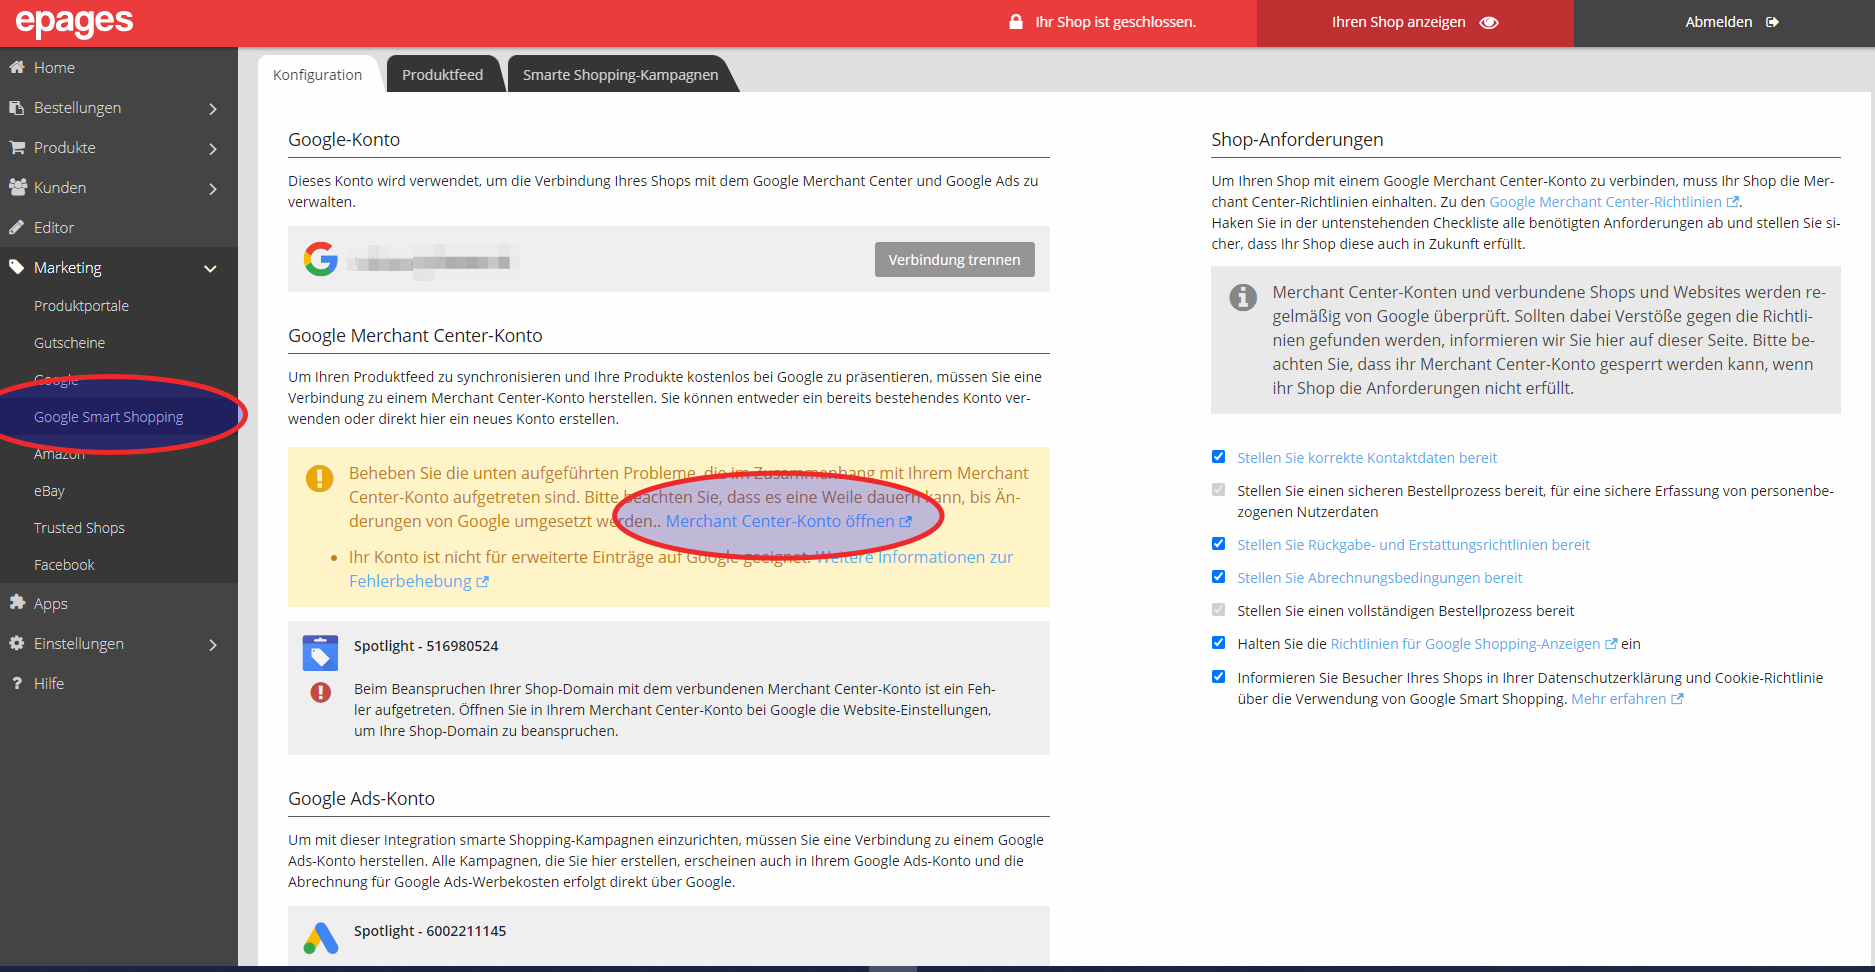
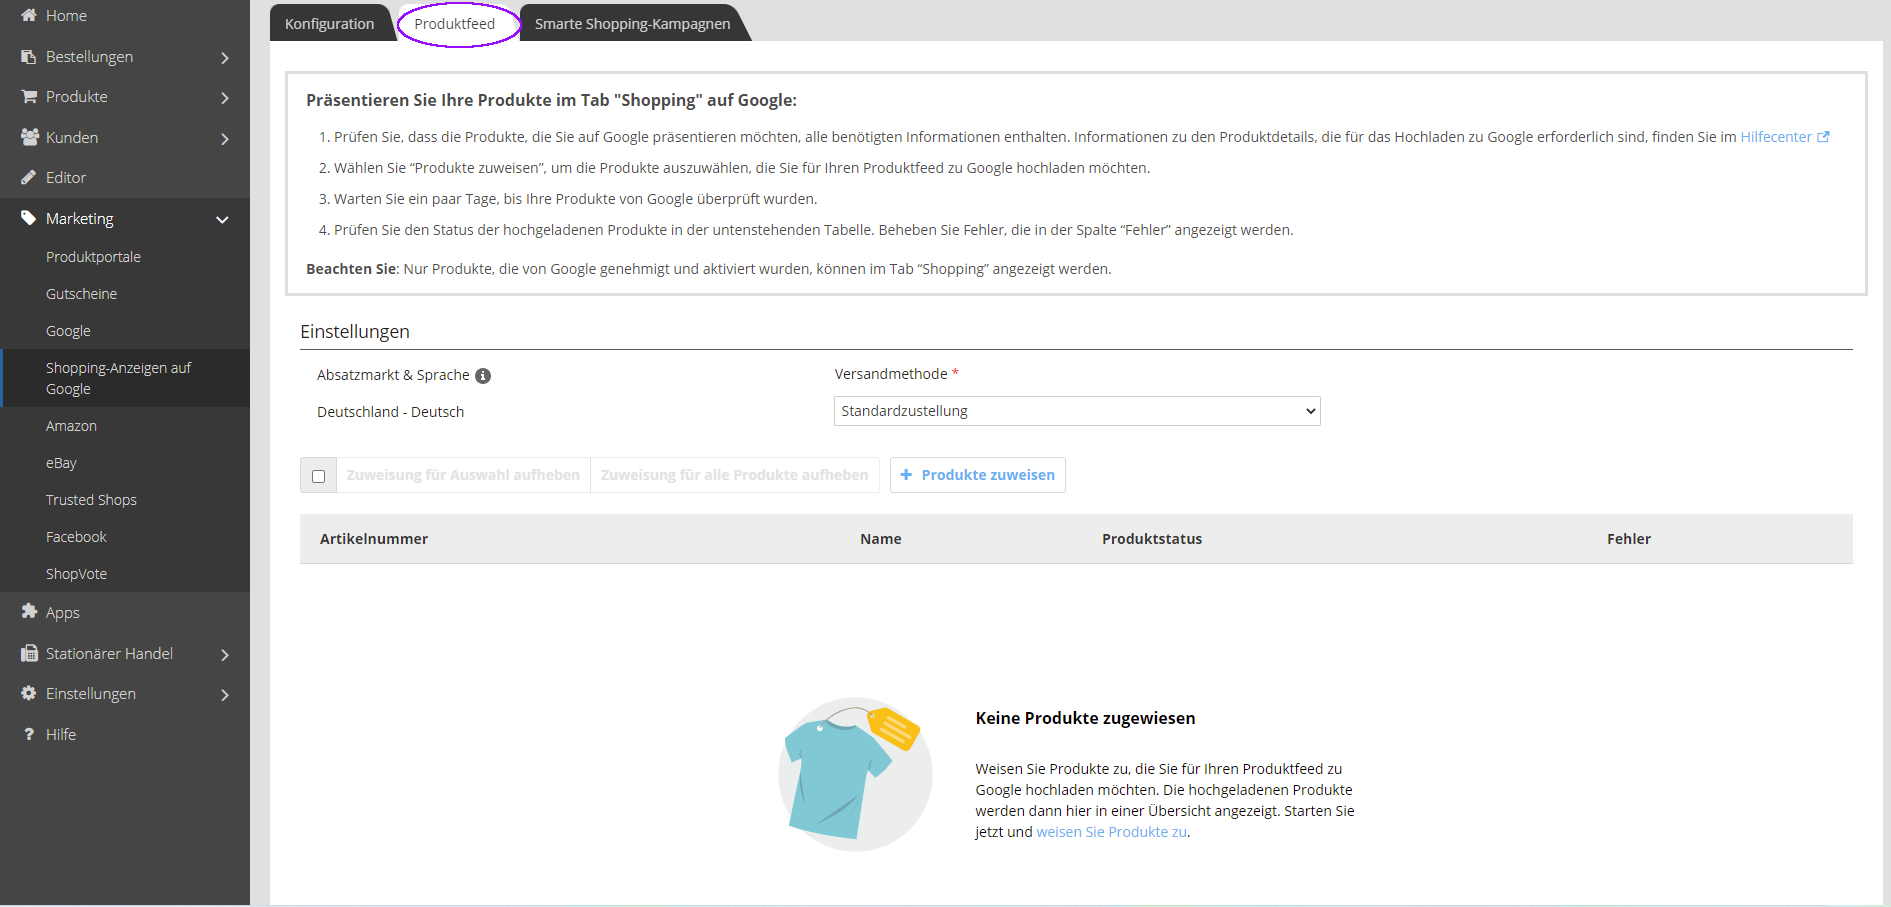
changes-product-upload

diff --git a/content/produktmanagement/allgemeine-einstellungen/2_merchant-center-öffnen.md b/content/produktmanagement/allgemeine-einstellungen/2_merchant-center-öffnen.md
@@ -1,13 +1,19 @@
 ---
-title: Merchant Center öffnen
+title: Produkte im Merchant Center hochladen
 ---
 
-In Ihrem Administrationsbereich unter **Marketing > Google Smart Shopping** öffnen Sie das Google Merchant Center. 
+In Ihrem Administrationsbereich unter **Marketing > Shopping-Anzeigen auf Google** öffnen Sie den Produktfeed. 
 
 ![Merchant Center öffnen](img/merchant-center-öffnen.png)
 
-## Übersicht
+## Einstellungen
 
-Es öffnet sich die Übersichtsseite des Google Merchant Centers.
+Dort können nun Einstellungen wie Versandmethode und Sprache festgelegt werden.
 
-![Google-Merchant-Center-Übersicht](img/google-merchant-center-übersicht.png)
+![Google-Merchant-Center-Übersicht](img/Produktfeed-Einstellungen.png)
+
+Im letzten Schritt werden die Produkte ausgewählt, die beworben werden sollen, dabei können durch das Setzen von Haken nur ausgewählte Produkte hochgeladen werden oder durch Klick auf einen weiteren Button können alle Produkte hochgeladen werden.
+
+![Google-Merchant-Center-Übersicht](img/Produktfeed-Produktupload.png)
+
+Nun werden die ausgewählten Produkte im Merchant Center hochgeladen und können nach abschließender Prüfung von Google beworben werden.
